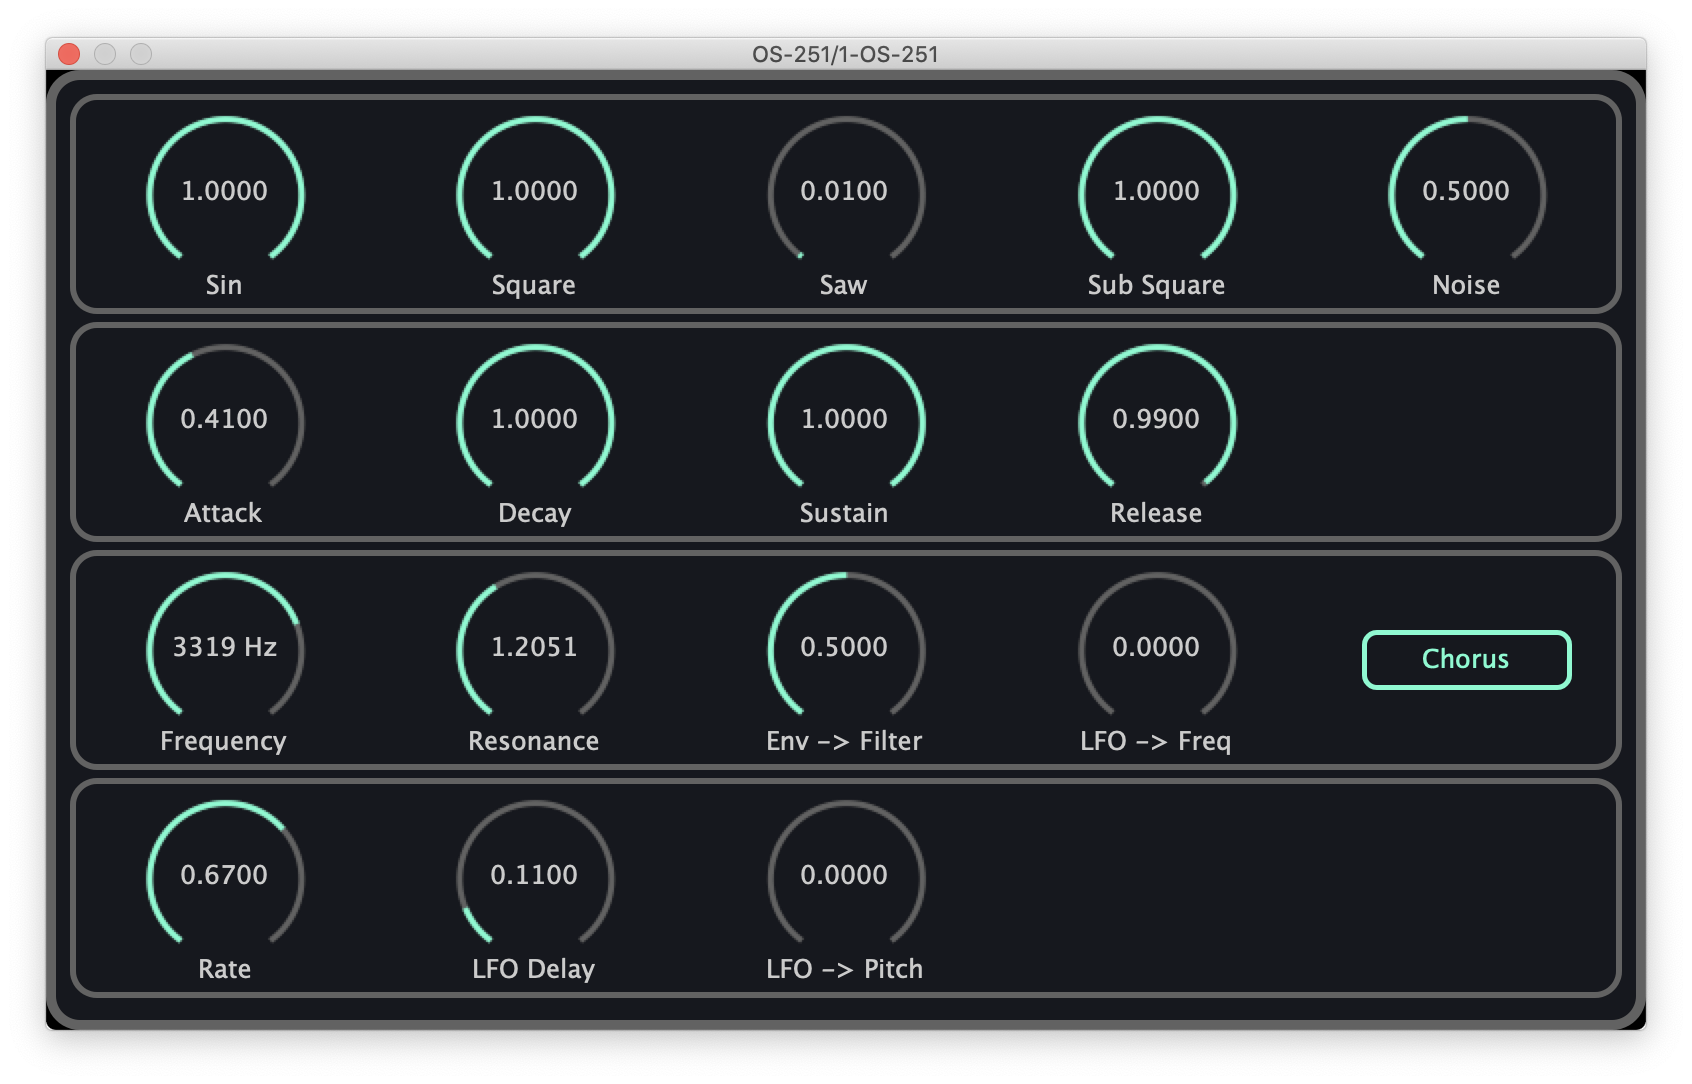
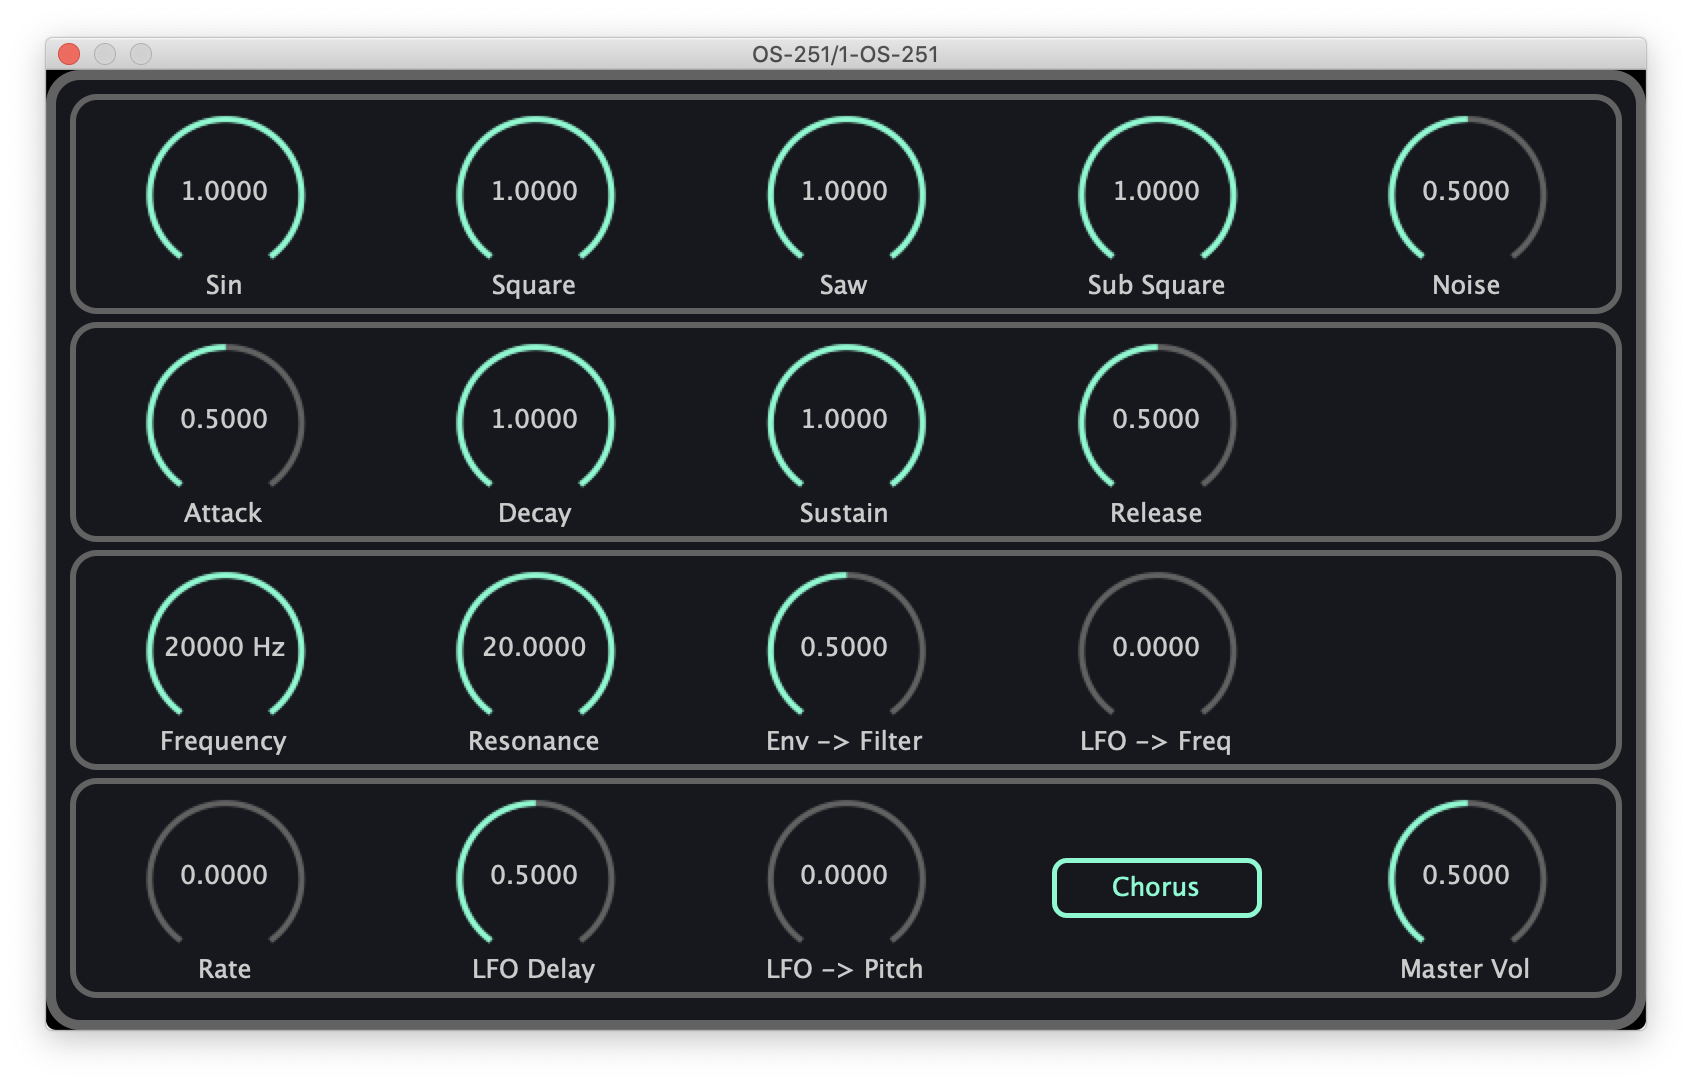
Add master volume

diff --git a/src/jsui/src/App.js b/src/jsui/src/App.js
@@ -150,12 +150,7 @@ class App extends Component {
               paramId="lfoFilterFreq"
               paramLabel="LFO -> Freq"
             />
-            <ButtonModule
-              paramId="chorusOn"
-              paramLabel="Chorus"
-              onToggled={this._onChorusToggled}
-              isOn={this.state.isChorusOn}
-            />
+            <DummyModule />
           </View>
           <View {...styles.param_row}>
             <SliderModule
@@ -170,8 +165,16 @@ class App extends Component {
               paramId="lfoPitch"
               paramLabel="LFO -> Pitch"
             />
-            <DummyModule />
-            <DummyModule />
+            <ButtonModule
+              paramId="chorusOn"
+              paramLabel="Chorus"
+              onToggled={this._onChorusToggled}
+              isOn={this.state.isChorusOn}
+            />
+            <SliderModule
+              paramId="masterVolume"
+              paramLabel="Master Vol"
+            />
           </View>
         </View>
       </View>

diff --git a/src/PluginProcessor.cpp b/src/PluginProcessor.cpp
@@ -150,6 +150,14 @@ Os251AudioProcessor::Os251AudioProcessor()
     chorusParams->setChorusOnPtr (parameters.getRawParameterValue (("chorusOn")));
     parameters.addParameterListener ("chorusOn", this);
 
+    // Master parameters
+    onsen::MasterParams* const masterParams = synthParams.master();
+
+    // Master volume
+    parameters.createAndAddParameter (std::make_unique<Parameter> ("masterVolume", "Master Vol", "", nrange, 0.5, valueToTextFunction, nullptr, true));
+    masterParams->setMasterVolumePtr(parameters.getRawParameterValue (("masterVolume")));
+    parameters.addParameterListener ("masterVolume", this);
+
     // ---
 
     parameters.state = juce::ValueTree (juce::Identifier ("OS-251"));
@@ -330,11 +338,13 @@ void Os251AudioProcessor::parameterChanged (const juce::String& parameterID, flo
     onsen::LfoParams* const lfoParams = synthParams.lfo();
     onsen::FilterParams* const filterParams = synthParams.filter();
     onsen::ChorusParams* const chorusParams = synthParams.chorus();
+    onsen::MasterParams* const master = synthParams.master();
     oscillatorParams->parameterChanged();
     envelopeParams->parameterChanged();
     lfoParams->parameterChanged();
     filterParams->parameterChanged();
     chorusParams->parameterChanged();
+    master->parameterChanged();
 }
 
 //==============================================================================

diff --git a/src/MasterVolume.h b/src/MasterVolume.h
@@ -1,0 +1,40 @@
+/*
+  ==============================================================================
+
+   Master volume
+
+  ==============================================================================
+*/
+
+#pragma once
+
+#include <JuceHeader.h>
+#include "DspCommon.h"
+#include "SynthParams.h"
+
+namespace onsen
+{
+//==============================================================================
+class MasterVolume
+{
+public:
+    MasterVolume (SynthParams* const synthParams)
+    : p (synthParams->master()) {}
+    void render (juce::AudioBuffer<flnum>& outputAudio, int startSample, int numSamples)
+    {
+        int idx = startSample;
+        while (--numSamples >= 0)
+        {
+            const flnum gain = p->getMasterVolume();
+            for (auto i = outputAudio.getNumChannels(); --i >= 0;)
+            {
+                flnum inputVal = outputAudio.getSample (i, idx);
+                outputAudio.setSample(i, idx, inputVal * gain);
+            }
+            idx++;
+        }
+    }
+private:
+    const MasterParams* const p;
+};
+}

diff --git a/src/params/MasterParams.h b/src/params/MasterParams.h
@@ -1,0 +1,37 @@
+/*
+  ==============================================================================
+
+   Master Parameters
+
+  ==============================================================================
+*/
+
+#pragma once
+
+#include "../DspCommon.h"
+
+namespace onsen
+{
+//==============================================================================
+class MasterParams
+{
+public:
+    flnum getMasterVolume() const
+    {
+        return masterVolumeVal;
+    }
+    void setMasterVolumePtr (const std::atomic<flnum>* _masterVolume)
+    {
+        masterVolume = _masterVolume;
+        masterVolumeVal = *masterVolume;
+    }
+    void parameterChanged()
+    {
+        masterVolumeVal = *masterVolume;
+    }
+
+private:
+    const std::atomic<flnum>* masterVolume {};
+    flnum masterVolumeVal = 0.5;
+};
+}

diff --git a/src/SynthEngine.h b/src/SynthEngine.h
@@ -13,6 +13,7 @@
 #include "SynthParams.h"
 #include "Chorus.h"
 #include "Lfo.h"
+#include "MasterVolume.h"
 #include "SynthVoice.h"
 
 namespace onsen
@@ -27,7 +28,8 @@ public:
     FancySynth (SynthParams* const synthParams, Lfo* const _lfo)
         : params (synthParams),
           lfo (_lfo),
-          chorus()
+          chorus(),
+          masterVolume(synthParams)
     {
     }
 
@@ -47,6 +49,7 @@ private:
     SynthParams* const params;
     Lfo* const lfo;
     Chorus chorus;
+    MasterVolume masterVolume;
 
     void renderVoices (juce::AudioBuffer<flnum>& outputAudio,
                        int startSample,

diff --git a/src/SynthParams.h b/src/SynthParams.h
@@ -13,6 +13,7 @@
 #include "params/EnvelopeParams.h"
 #include "params/FilterParams.h"
 #include "params/LfoParams.h"
+#include "params/MasterParams.h"
 #include "params/OscillatorParams.h"
 
 namespace onsen
@@ -42,6 +43,10 @@ public:
     {
         return &chorusParams;
     }
+    MasterParams* master()
+    {
+        return &masterParams;
+    }
 
 private:
     // plugin parameters
@@ -50,5 +55,6 @@ private:
     FilterParams filterParams;
     OscillatorParams oscillatorParams;
     ChorusParams chorusParams;
+    MasterParams masterParams;
 };
 }

diff --git a/src/SynthEngine.cpp b/src/SynthEngine.cpp
@@ -56,6 +56,7 @@ void FancySynth::renderVoices (juce::AudioBuffer<flnum>& outputAudio,
     juce::Synthesiser::renderVoices (outputAudio, startSample, numSamples);
     if (params->chorus()->getChorusOn())
         chorus.render (outputAudio, startSample, numSamples);
+    masterVolume.render (outputAudio, startSample, numSamples);
 }
 
 } // namespace onsen
